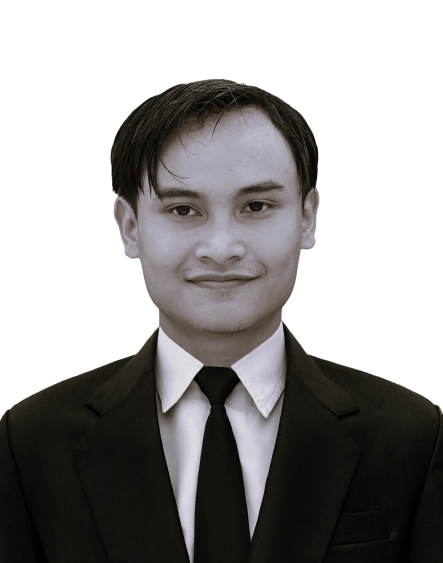
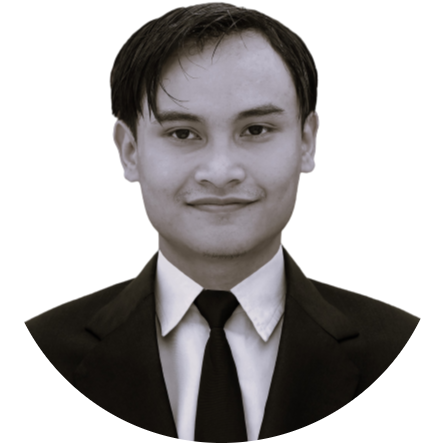
update:animation, project

diff --git a/src/components/ProjectGroup.jsx b/src/components/ProjectGroup.jsx
@@ -1,78 +1,97 @@
 import React from 'react'
 import { FaGithub } from 'react-icons/fa'
-import Aini from '../assets/aini.jpg'
-import Jordi from '../assets/jordi.jpg'
-import Project from '../assets/skilMovie.png'
 import Bangkit from '../assets/screenShoot.png'
+import Aini from '../assets/aini.jpg'
+import Dinkes from '../assets/dinkes.png'
+import CV from '../assets/Osman.png'
+import SPP from '../assets/spp.png'
 import Toko from '../assets/bab1.png'
+import Project from '../assets/skilMovie.png'
 
 function ProjectGroup() {
   return (
         <section className='project-section mt-3'>
-        <h1 className='title-page text-secondary text-center mt-3 mb-2'>My Project</h1>
+        <h1 data-aos="zoom-in-left" className='title-page text-secondary text-center mt-3 mb-2'>My Project</h1>
         <article className='project-group bg-crimson w-80 p-3 mx-auto'>
             <div className='row d-flex justify-content-between flex-column-reverse'>
-                <aside className='project-group-desc text-secondary'>
+                <aside data-aos="zoom-in" className='project-group-desc text-secondary'>
                 <h3 className='project-group-title '>Group Project</h3>
                 <p className='project-group-description'>In this project, my team and I create a digital product based on the challenge partner's problems. Namely making product innovations that can help the community in dealing with the COVID-19 pandemic.....</p>
                 <a href='https://github.com/FE-20-Group-Project/Bangkit-app' target='_blank'>
                 <button className='w-60 w-sm-100 bn5 mt-3 p-1 fs-3'><FaGithub className='me-1'/> Detail Repositories</button>
                 </a>
                 </aside>
-                <aside className='project-group-img'>
+                <aside data-aos="zoom-in" className='project-group-img'>
                 <img className='bangkit' src={Bangkit} />
                 </aside>
             </div>
         </article>
         <article className='project-group w-80 w-sm-100 p-3 mx-auto'>
-                <h3 className='project-group-title text-secondary'>Freelance & Research Project</h3>
+                <h3 data-aos="fade-down" className='project-group-title text-secondary'>Freelance & Research Project</h3>
             <div className='row d-flex justify-content-between flex-column mb-3'>
-                <aside className='project-group-img mb-sm-3 p-1'>
+                <aside data-aos="zoom-in" className='project-group-img mb-sm-3 p-1'>
                 <img src={Aini} />
                 </aside>
                 <aside className='project-group-desc text-secondary'>
-                <div className='project-group-description'>
-                My Research Project Assignment :
+                <div data-aos="fade-up" className='project-group-description'>
+                My Research Project Assignment, Reservation Room :
                     <ul className='list-group'>
                         <li className='list'>Build with PHP & Laravel 8 Framework</li>
                         <li className='list'>End to end system with library transaction Midtrans Payment Gateway</li>
                     </ul>
                 </div>
-                <a href='https://github.com/Fazlu601/proyek-penelitian-reservasi-hotel-grand-aini-jambi' target='_blank'>
-                <button className='w-60 w-sm-100 bn5 mt-3 p-1 fs-3'><FaGithub className='me-1'/> Detail Repositories</button>
-                </a>
-                </aside>
-            </div>
-            <div className='row d-flex justify-content-between flex-column mb-3'>
-                <aside className='project-group-img mb-sm-3 p-1'>
-                <img src={Jordi} />
-                </aside>
-                <aside className='project-group-desc text-secondary'>
-                <div className='project-group-description'>
-                Software Engineering Final Assignment :
-                    <ul className='list-group'>
-                        <li className='list'>Build with PHP & Codeigniter 3 Framework</li>
-                    </ul>
-                </div>
-                <a href='https://github.com/Fazlu601/Tugas-Akhir-RPL-Ecommerce-JordiVariasi' target='_blank'>
+                <a data-aos="zoom-in" href='https://github.com/Fazlu601/proyek-penelitian-reservasi-hotel-grand-aini-jambi' target='_blank'>
                 <button className='w-60 w-sm-100 bn5 mt-3 p-1 fs-3'><FaGithub className='me-1'/> Detail Repositories</button>
                 </a>
                 </aside>
             </div>
             <div className='row d-flex justify-content-between flex-column'>
-                <aside className='project-group-img mb-sm-3 p-1'>
+                <aside data-aos="zoom-in" className='project-group-img mb-sm-3 p-1'>
                 <img src={Toko} />
                 </aside>
                 <aside className='project-group-desc text-secondary'>
-                <div className='project-group-description'>
-                Project Freelance E-Commerce :
+                <div data-aos="fade-up" className='project-group-description'>
+                Project Freelance, E-Commerce :
                     <ul className='list-group'>
                         <li className='list'>Build with PHP & Laravel 10 Framework</li>
                         <li className='list'>Using Raja Ongkir API for delivery support</li>
                         <li className='list'>End to end system with library transaction Midtrans Payment Gateway</li>
                     </ul>
                 </div>
-                <a href='https://github.com/Fazlu601/linda-fashion-app' target='_blank'>
+                <a data-aos="zoom-in" href='https://github.com/Fazlu601/linda-fashion-app' target='_blank'>
+                <button className='w-60 w-sm-100 bn5 mt-3 p-1 fs-3'><FaGithub className='me-1'/> Detail Repositories</button>
+                </a>
+                </aside>
+            </div>
+            <div className='row d-flex justify-content-between flex-column'>
+                <aside data-aos="zoom-in" className='project-group-img mb-sm-3 p-1'>
+                <img src={CV} />
+                </aside>
+                <aside className='project-group-desc text-secondary'>
+                <div data-aos="fade-up" className='project-group-description'>
+                Project Freelance, Data Management :
+                    <ul className='list-group'>
+                        <li className='list'>Build with PHP & Laravel 10 Framework</li>
+                    </ul>
+                </div>
+                <a data-aos="zoom-in" href='https://github.com/Fazlu601/linda-fashion-app' target='_blank'>
+                <button className='w-60 w-sm-100 bn5 mt-3 p-1 fs-3'><FaGithub className='me-1'/> Detail Repositories</button>
+                </a>
+                </aside>
+            </div>
+            <div className='row d-flex justify-content-between flex-column'>
+                <aside data-aos="zoom-in" className='project-group-img mb-sm-3 p-1'>
+                <img src={SPP} />
+                </aside>
+                <aside className='project-group-desc text-secondary'>
+                <div data-aos="fade-up" className='project-group-description'>
+                Project Freelance, SPP :
+                    <ul className='list-group'>
+                        <li className='list'>Build with PHP & Laravel 10 Framework</li>
+                        <li className='list'>With 2 Point of View user Admin & Student</li>
+                    </ul>
+                </div>
+                <a data-aos="zoom-in" href='https://github.com/Fazlu601/linda-fashion-app' target='_blank'>
                 <button className='w-60 w-sm-100 bn5 mt-3 p-1 fs-3'><FaGithub className='me-1'/> Detail Repositories</button>
                 </a>
                 </aside>
@@ -80,14 +99,14 @@ function ProjectGroup() {
         </article>
         <article className='project-group bg-crimson p-3 mx-auto'>
             <div className='row d-flex justify-content-around flex-column'>
-                <aside className='project-group-desc text-sm-center text-secondary mb-sm-3'>
+                <aside data-aos="zoom-in-right" className='project-group-desc text-sm-center text-secondary mb-sm-3'>
                 <h3 className='project-group-title '>All Project</h3>
                 <p className='project-group-description'>You can see more of my projects on github via the following button</p>
                 <a href='https://github.com/Fazlu601?tab=repositories' target='_blank'>
                 <button className='w-60 bn5 mt-3 p-1 fs-3'><FaGithub className='me-1'/> View on GithHub...</button>
                 </a>
                 </aside>
-                <aside className='project-group-img'>
+                <aside data-aos="zoom-in-left" className='project-group-img'>
                 <img src={Project} />
                 </aside>
             </div>

diff --git a/src/components/SkillsIcon.jsx b/src/components/SkillsIcon.jsx
@@ -4,21 +4,42 @@ import { FaHtml5, FaCss3, FaJs, FaPhp, FaLaravel, FaReact, FaDatabase, FaFigma, 
 function SkillsIcon() {
   return (
     <section className='skills-section w-90 mx-auto'>
-            <h1 className='title-page text-secondary text-center mt-3 mb-2'>Skills</h1>
+            <h1 data-aos="zoom-in-right" className='title-page text-secondary text-center mt-3 mb-2'>Skills</h1>
             <article className='skills-group'>
                 <div className='row d-flex justify-content-center f-wrap'>
-                    <FaFigma className='skills-icon'/>
-                    <FaHtml5 className='skills-icon'/>
-                    <FaCss3 className='skills-icon'/>
-                    <FaJs className='skills-icon'/>
-                    <FaReact className='skills-icon'/>
-                    <FaPhp className='skills-icon'/>
-                    <FaLaravel className='skills-icon'/>
-                    <FaDatabase className='skills-icon'/>
-                    <FaGit className='skills-icon'/>
-                    <FaGithub className='skills-icon'/>
+                <div data-aos="zoom-in" >             
+                <FaFigma className='skills-icon'/>
+              </div>
+              <div data-aos="zoom-in" >
+                <FaHtml5 className='skills-icon'/>
+              </div>
+              <div data-aos="zoom-in" >
+                <FaCss3 className='skills-icon'/>
+              </div>
+              <div data-aos="zoom-in" >
+                <FaJs className='skills-icon'/>
+              </div>
+              <div data-aos="zoom-in">
+                <FaReact className='skills-icon'/>
+              </div>
+              <div data-aos="zoom-in">
+                <FaPhp className='skills-icon'/>
+              </div>
+              <div data-aos="zoom-in">
+                <FaLaravel className='skills-icon'/>
+              </div>
+              <div data-aos="zoom-in">
+                <FaDatabase className='skills-icon'/>
+              </div>
+              <div data-aos="zoom-in">
+                <FaGit className='skills-icon'/>
+              </div>
+              <div data-aos="zoom-in">
+                <FaGithub className='skills-icon'/>
+              </div>
+
                 </div>  
-            </article>
+        </article>
         </section>
   )
 }

diff --git a/src/components/Header.jsx b/src/components/Header.jsx
@@ -1,7 +1,7 @@
 import React from 'react'
 import { FaMailBulk, FaGithub, FaLinkedin, FaInstagram, FaDownload } from 'react-icons/fa'
 import { Link } from 'react-router-dom'
-import Profil from '../assets/profile4.png'
+import Profil from '../assets/profile5.png'
 
 function Header() {
     const redirectToEmail = () => {
@@ -17,7 +17,7 @@ function Header() {
   return (
         <header className='header-profile pb-2' id='home'>
                 <div className='row'>
-                    <aside className='header-desc'>
+                    <aside data-aos="fade-right" className='header-desc'>
                         <h3 className='header-introduction'>Hi, i'm Fazlu Rachman</h3>
                         <h2 className='header-title'>Junior Full Stack Web Developer</h2>
                         <p className='header-description'>
@@ -45,7 +45,7 @@ function Header() {
                             <span className='caption-download'>Download CV</span>
                         </a>
                     </aside>
-                    <aside className='header-img'>
+                    <aside data-aos="zoom-in" className='header-img'>
                         <img src={Profil} />
                     </aside>
                 </div>

diff --git a/src/components/Footer.jsx b/src/components/Footer.jsx
@@ -4,9 +4,9 @@ import { FaGithub, FaMailBulk, FaLinkedin, FaInstagram } from 'react-icons/fa'
 function Footer() {
   return (
     <footer className='footer'>
-        <h3 className='mb-2'>PORTOFOLIO</h3>
-        <p className='mb-2'>For business inquiry please send email to fazrlu9575@gmail.com</p>
-        <div className='contact-group'>
+        <h3 data-aos="zoom-in-right" className='mb-2'>PORTOFOLIO</h3>
+        <p data-aos="zoom-in-right" className='mb-2'>For business inquiry please send email to fazrlu9575@gmail.com</p>
+        <div data-aos="zoom-in-left" className='contact-group'>
                             <aside className='social-group'>
                                 <a href='https://github.com/Fazlu601' target='_blank'>
                                 <FaGithub className='social-icon' />
@@ -18,7 +18,7 @@ function Footer() {
                                 <FaInstagram className='social-icon' />
                                 </a>
                             </aside>
-                        </div>
+        </div>
     </footer>
   )
 }

diff --git a/src/App.jsx b/src/App.jsx
@@ -1,10 +1,14 @@
-import { useState } from 'react'
+import { useEffect } from 'react'
 import { Routes, Route } from 'react-router-dom'
 import './App.css'
+import AOS from 'aos';
 import Home from './page/Home'
 import NavBar from './components/NavBar'
 
 function App() {
+  useEffect(() => {
+    AOS.init();
+  }, [])
     return (
       <main>
         <NavBar/>

diff --git a/src/components/NavBar.jsx b/src/components/NavBar.jsx
@@ -7,7 +7,7 @@ const linkStyle = { color: 'gold' }
 
 function NavBar() {
   return (
-    <nav className='navbar'>
+    <nav data-aos="fade-down" className='navbar'>
     <div className='nav-link'>
         <div className='nav-brand'>
                 <img className='nav-brand-icon' src={NavIcon} width='28' />

diff --git a/src/main.jsx b/src/main.jsx
@@ -3,6 +3,7 @@ import ReactDOM from 'react-dom/client'
 import { BrowserRouter } from 'react-router-dom'
 import App from './App'
 import './index.css'
+import 'aos/dist/aos.css';
 
 ReactDOM.createRoot(document.getElementById('root')).render(
   <React.StrictMode>

diff --git a/src/App.css b/src/App.css
@@ -95,9 +95,9 @@ aside.header-desc {
 }
 aside.header-img {
   position: relative;
-  width: 380px;
+  width: 375px;
   background-color: rgba(224, 18, 59, 0.538);
-  height: 380px;
+  height: 375px;
   border-radius: 50%;
   transform: translateY(15px);
 }
